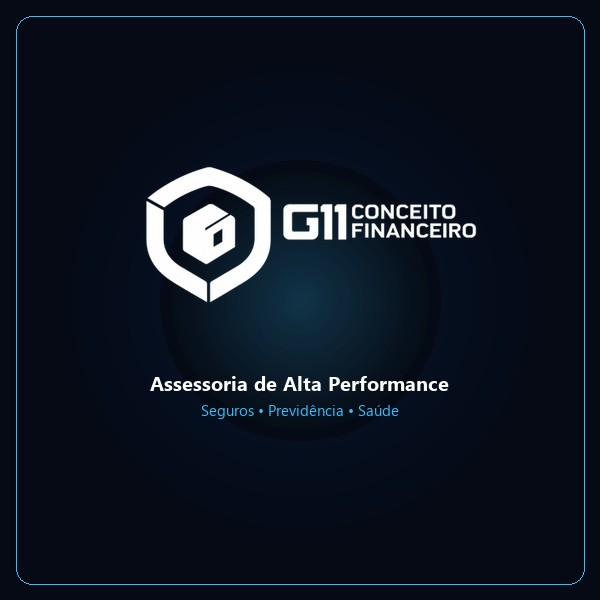
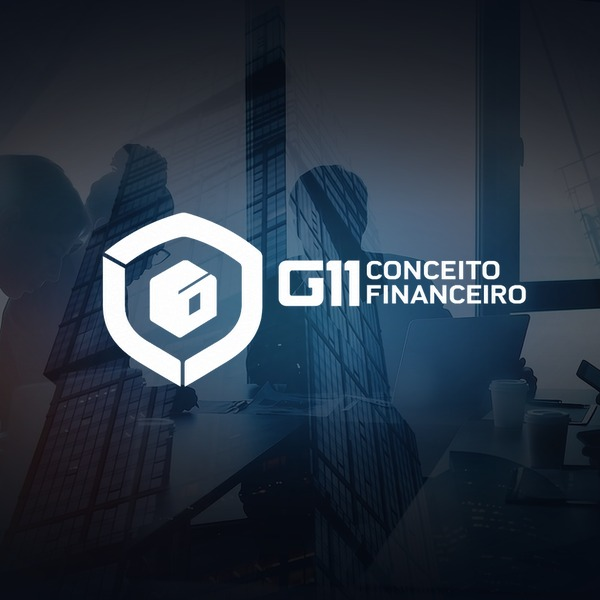
feat(seo): atualiza card de preview para exibir exclusivamente a Hero cinematica oficial

diff --git a/generate_og_image.py b/generate_og_image.py
@@ -1,170 +1,108 @@
-import os
-from PIL import Image, ImageDraw, ImageFont, ImageFilter
+import math
+from PIL import Image, ImageDraw, ImageFilter
 
 W, H = 1200, 630
-base = Image.new('RGB', (W, H), color='#050a14')
 
-# 1. Ambient radial glows
+# 1. Load Background Poster (slide_1_poster.jpg)
+bg_path = 'client/public/uploads/hero/slide_1_poster.jpg'
+bg = Image.open(bg_path).convert('RGBA')
+
+# Center crop and resize to 1200x630
+bg_ratio = bg.width / bg.height
+target_ratio = W / H
+
+if bg_ratio > target_ratio:
+    new_h = H
+    new_w = int(H * bg_ratio)
+    bg_resized = bg.resize((new_w, new_h), Image.Resampling.LANCZOS)
+    left = (new_w - W) // 2
+    canvas = bg_resized.crop((left, 0, left + W, H))
+else:
+    new_w = W
+    new_h = int(W / bg_ratio)
+    bg_resized = bg.resize((new_w, new_h), Image.Resampling.LANCZOS)
+    top = (new_h - H) // 2
+    canvas = bg_resized.crop((0, top, W, top + H))
+
+# 2. Base Dark Navy Film Layer (#050a14 at 55% opacity)
+navy_overlay = Image.new('RGBA', (W, H), (5, 10, 20, int(255 * 0.58)))
+canvas = Image.alpha_composite(canvas, navy_overlay)
+
+# 3. Silky Smooth Top/Bottom Gradient Layer
+grad_layer = Image.new('RGBA', (W, H), (0, 0, 0, 0))
+grad_draw = ImageDraw.Draw(grad_layer)
+for y in range(H):
+    # Top 30% soft dark gradient
+    if y < H * 0.35:
+        alpha = int(170 * (1 - (y / (H * 0.35))))
+    # Bottom 45% deep navy fade
+    elif y > H * 0.55:
+        alpha = int(220 * ((y - H * 0.55) / (H * 0.45)))
+    else:
+        alpha = 0
+    grad_draw.line([(0, y), (W, y)], fill=(5, 10, 20, alpha))
+
+canvas = Image.alpha_composite(canvas, grad_layer)
+
+# 4. Perfectly Smooth Radial Vignette (No rings or banding)
+# Create vignette using Gaussian blurred elliptical mask
+vig_mask = Image.new('L', (W, H), 0)
+vig_draw = ImageDraw.Draw(vig_mask)
+cx, cy = W // 2, H // 2
+# Inner clear area
+vig_draw.ellipse([cx - 420, cy - 240, cx + 420, cy + 240], fill=255)
+# Invert and blur heavily for continuous, smooth falloff
+vig_mask_inverted = Image.eval(vig_mask, lambda a: 255 - a)
+vig_mask_smooth = vig_mask_inverted.filter(ImageFilter.GaussianBlur(90))
+
+# Create deep navy fill with variable opacity based on mask
+deep_navy = Image.new('RGBA', (W, H), (5, 10, 20, 210))
+vignette_layer = Image.new('RGBA', (W, H), (0, 0, 0, 0))
+vignette_layer.paste(deep_navy, (0, 0), vig_mask_smooth)
+canvas = Image.alpha_composite(canvas, vignette_layer)
+
+# 5. Ambient Cyan & Cobalt Radial Glow
 glow = Image.new('RGBA', (W, H), (0, 0, 0, 0))
 glow_draw = ImageDraw.Draw(glow)
 
-center_x, center_y = W // 2, H // 2 - 25
-for r in range(380, 0, -10):
-    alpha = int(40 * (1 - r / 380))
-    glow_draw.ellipse([center_x - r, center_y - int(r * 0.7), center_x + r, center_y + int(r * 0.7)], fill=(0, 71, 171, alpha))
+glow_draw.ellipse([cx - 280, cy - 180, cx + 280, cy + 180], fill=(0, 71, 171, 70))
+glow_draw.ellipse([cx - 150, cy - 100, cx + 150, cy + 100], fill=(56, 189, 248, 90))
+glow_blurred = glow.filter(ImageFilter.GaussianBlur(65))
+canvas = Image.alpha_composite(canvas, glow_blurred)
 
-for r in range(200, 0, -8):
-    alpha = int(50 * (1 - r / 200))
-    glow_draw.ellipse([center_x - r, center_y - int(r * 0.6), center_x + r, center_y + int(r * 0.6)], fill=(56, 189, 248, alpha))
-
-base.paste(glow, (0, 0), glow)
-
-# 2. Border & Accents
-draw = ImageDraw.Draw(base)
-margin = 28
-draw.rounded_rectangle([margin, margin, W - margin, H - margin], radius=16, outline=(56, 189, 248, 70), width=1)
-
-corner_len = 36
-draw.line([margin, margin, margin + corner_len, margin], fill=(56, 189, 248, 240), width=2)
-draw.line([margin, margin, margin, margin + corner_len], fill=(56, 189, 248, 240), width=2)
-draw.line([W - margin - corner_len, margin, W - margin, margin], fill=(56, 189, 248, 240), width=2)
-draw.line([W - margin, margin, W - margin, margin + corner_len], fill=(56, 189, 248, 240), width=2)
-draw.line([margin, H - margin, margin + corner_len, H - margin], fill=(56, 189, 248, 240), width=2)
-draw.line([margin, H - margin, margin, H - margin - corner_len], fill=(56, 189, 248, 240), width=2)
-draw.line([W - margin - corner_len, H - margin, W - margin, H - margin], fill=(56, 189, 248, 240), width=2)
-draw.line([W - margin, H - margin, W - margin, H - margin - corner_len], fill=(56, 189, 248, 240), width=2)
-
-# 3. Fonts
-font_dir = 'C:/Windows/Fonts/'
-font_tag = ImageFont.truetype(font_dir + 'segoeuib.ttf', 13)
-font_title = ImageFont.truetype(font_dir + 'segoeuib.ttf', 28)
-font_subtitle = ImageFont.truetype(font_dir + 'segoeui.ttf', 18)
-font_badge = ImageFont.truetype(font_dir + 'segoeuib.ttf', 12)
-font_url = ImageFont.truetype(font_dir + 'segoeuib.ttf', 14)
-
-# 4. Top Tagline (Fits safely within central 580px zone)
-tag_text = "G11 CONCEITO FINANCEIRO  •  ALTA PERFORMANCE"
-bbox = draw.textbbox((0, 0), tag_text, font=font_tag)
-tw = bbox[2] - bbox[0]
-tag_x = (W - tw) // 2
-tag_y = 55
-draw.text((tag_x, tag_y), tag_text, font=font_tag, fill=(56, 189, 248))
-
-line_len = 60
-draw.line([tag_x - line_len - 14, tag_y + 8, tag_x - 14, tag_y + 8], fill=(56, 189, 248, 120), width=1)
-draw.line([tag_x + tw + 14, tag_y + 8, tag_x + tw + line_len + 14, tag_y + 8], fill=(56, 189, 248, 120), width=1)
-
-# 5. Logo
+# 6. Official Brand Logo
 logo_path = 'client/public/uploads/branding/logo_hero_central.png'
 logo = Image.open(logo_path).convert('RGBA')
 
-# Target width 540px (completely within 630px square safe zone)
-target_w = 540
+# Target width 620px - perfectly framed, grand and luxury
+target_w = 620
 target_h = int(logo.height * (target_w / logo.width))
 logo = logo.resize((target_w, target_h), Image.Resampling.LANCZOS)
 
-logo_pos_x = (W - target_w) // 2
-logo_pos_y = 100
+logo_x = (W - target_w) // 2
+logo_y = (H - target_h) // 2
 
-logo_shadow = Image.new('RGBA', (W, H), (0, 0, 0, 0))
-logo_shadow.paste(logo, (logo_pos_x, logo_pos_y), logo)
-glow_layer = logo_shadow.filter(ImageFilter.GaussianBlur(18))
-glow_enh = Image.new('RGBA', (W, H), (56, 189, 248, 160))
-glow_comp = Image.composite(glow_enh, glow_layer, glow_layer.split()[3])
-glow_final = glow_comp.filter(ImageFilter.GaussianBlur(12))
+# Subtle cyan drop-shadow
+shadow = Image.new('RGBA', (W, H), (0, 0, 0, 0))
+logo_alpha = logo.split()[3]
+cyan_fill = Image.new('RGBA', (target_w, target_h), (56, 189, 248, 140))
+cyan_logo = Image.composite(cyan_fill, Image.new('RGBA', (target_w, target_h), (0, 0, 0, 0)), logo_alpha)
+shadow.paste(cyan_logo, (logo_x, logo_y + 10), cyan_logo)
+shadow_blurred = shadow.filter(ImageFilter.GaussianBlur(25))
 
-base.paste(glow_final, (0, 0), glow_final)
-base.paste(logo, (logo_pos_x, logo_pos_y), logo)
+canvas = Image.alpha_composite(canvas, shadow_blurred)
+canvas.paste(logo, (logo_x, logo_y), logo)
 
-# 6. Headline & Subtitle within central 580px zone
-headline_y = logo_pos_y + target_h + 18
-headline_text = "Soluções Estratégicas para Clientes e Corretores"
-bbox_hl = draw.textbbox((0, 0), headline_text, font=font_title)
-hl_w = bbox_hl[2] - bbox_hl[0]
-draw.text(((W - hl_w) // 2, headline_y), headline_text, font=font_title, fill=(255, 255, 255))
+# Save high quality JPEG and PNG
+final_rgb = canvas.convert('RGB')
+final_rgb.save('client/public/og-image.jpg', format='JPEG', quality=92, optimize=True)
+final_rgb.save('client/public/og-image.png', format='PNG', optimize=True)
 
-sub_text = "Seguros • Previdência Privada • Saúde • Planejamento"
-bbox_sub = draw.textbbox((0, 0), sub_text, font=font_subtitle)
-sub_w = bbox_sub[2] - bbox_sub[0]
-draw.text(((W - sub_w) // 2, headline_y + 40), sub_text, font=font_subtitle, fill=(186, 230, 253))
+# 7. Create 600x600 Square Card for WhatsApp Android
+sq_side = min(W, H)
+sq_left = (W - sq_side) // 2
+sq_crop = canvas.crop((sq_left, 0, sq_left + sq_side, H))
+sq_final = sq_crop.resize((600, 600), Image.Resampling.LANCZOS).convert('RGB')
+sq_final.save('client/public/og-image-square.jpg', format='JPEG', quality=92, optimize=True)
 
-# 7. Badges row
-badges = [
-    "SEGURADORAS DE ELITE",
-    "ASSESSORIA EXCLUSIVA",
-    "ALTA PERFORMANCE"
-]
-
-badge_y = H - 98
-badge_boxes = []
-total_b_width = 0
-for b in badges:
-    bb = draw.textbbox((0, 0), b, font=font_badge)
-    bw = (bb[2] - bb[0]) + 36
-    badge_boxes.append((b, bw))
-    total_b_width += bw
-
-gap = 14
-total_row_w = total_b_width + gap * (len(badges) - 1)
-start_bx = (W - total_row_w) // 2
-
-cur_x = start_bx
-for b, bw in badge_boxes:
-    rect = [cur_x, badge_y, cur_x + bw, badge_y + 30]
-    draw.rounded_rectangle(rect, radius=15, fill=(9, 40, 61, 230), outline=(56, 189, 248, 110), width=1)
-    bb = draw.textbbox((0, 0), b, font=font_badge)
-    tw = bb[2] - bb[0]
-    draw.text((cur_x + (bw - tw) // 2, badge_y + 7), b, font=font_badge, fill=(224, 242, 254))
-    cur_x += bw + gap
-
-# 8. Bottom URL
-url_text = "www.g11conceitofinanceiro.com.br"
-bbox_url = draw.textbbox((0, 0), url_text, font=font_url)
-url_w = bbox_url[2] - bbox_url[0]
-draw.text(((W - url_w) // 2, H - 46), url_text, font=font_url, fill=(56, 189, 248))
-
-# Save landscape 1200x630
-base.save('client/public/og-image.jpg', format='JPEG', quality=90, optimize=True)
-base.save('client/public/og-image.png', format='PNG', optimize=True)
-
-# 9. Create 600x600 Square Thumbnail for WhatsApp Android / Square Card previews
-sq_w, sq_h = 600, 600
-sq = Image.new('RGB', (sq_w, sq_h), color='#050a14')
-sq_glow = Image.new('RGBA', (sq_w, sq_h), (0, 0, 0, 0))
-sq_gdraw = ImageDraw.Draw(sq_glow)
-
-for r in range(260, 0, -8):
-    alpha = int(45 * (1 - r / 260))
-    sq_gdraw.ellipse([300 - r, 300 - r, 300 + r, 300 + r], fill=(0, 71, 171, alpha))
-for r in range(140, 0, -6):
-    alpha = int(60 * (1 - r / 140))
-    sq_gdraw.ellipse([300 - r, 300 - r, 300 + r, 300 + r], fill=(56, 189, 248, alpha))
-sq.paste(sq_glow, (0, 0), sq_glow)
-
-sq_draw = ImageDraw.Draw(sq)
-sq_draw.rounded_rectangle([16, 16, sq_w - 16, sq_h - 16], radius=16, outline=(56, 189, 248, 80), width=1)
-
-# Central logo on square
-sq_logo_w = 460
-sq_logo_h = int(logo.height * (sq_logo_w / logo.width))
-sq_logo = logo.resize((sq_logo_w, sq_logo_h), Image.Resampling.LANCZOS)
-sq_logo_x = (sq_w - sq_logo_w) // 2
-sq_logo_y = 130
-sq.paste(sq_logo, (sq_logo_x, sq_logo_y), sq_logo)
-
-# Subtitle on square
-font_sq_t = ImageFont.truetype(font_dir + 'segoeuib.ttf', 20)
-sq_text = "Assessoria de Alta Performance"
-bbox_sq = sq_draw.textbbox((0, 0), sq_text, font=font_sq_t)
-sq_tw = bbox_sq[2] - bbox_sq[0]
-sq_draw.text(((sq_w - sq_tw) // 2, sq_logo_y + sq_logo_h + 30), sq_text, font=font_sq_t, fill=(255, 255, 255))
-
-font_sq_sub = ImageFont.truetype(font_dir + 'segoeui.ttf', 15)
-sq_sub = "Seguros • Previdência • Saúde"
-bbox_sqs = sq_draw.textbbox((0, 0), sq_sub, font=font_sq_sub)
-sq_sw = bbox_sqs[2] - bbox_sqs[0]
-sq_draw.text(((sq_w - sq_sw) // 2, sq_logo_y + sq_logo_h + 60), sq_sub, font=font_sq_sub, fill=(56, 189, 248))
-
-sq.save('client/public/og-image-square.jpg', format='JPEG', quality=90, optimize=True)
-
-print("Generated og-image.jpg, og-image.png, og-image-square.jpg")
+print("Regenerated seamless, cinema-grade Hero preview card.")
